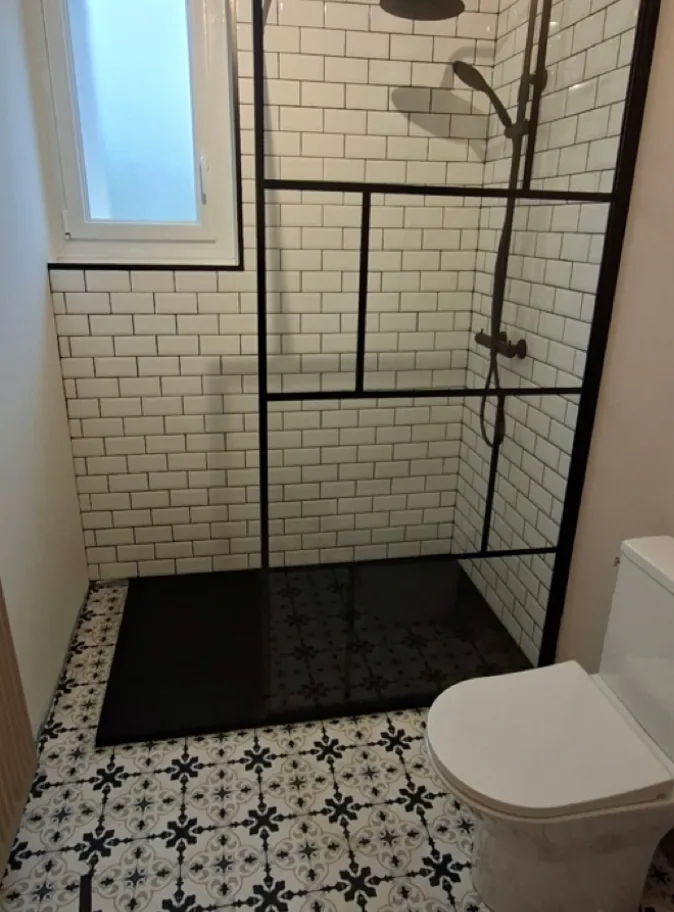
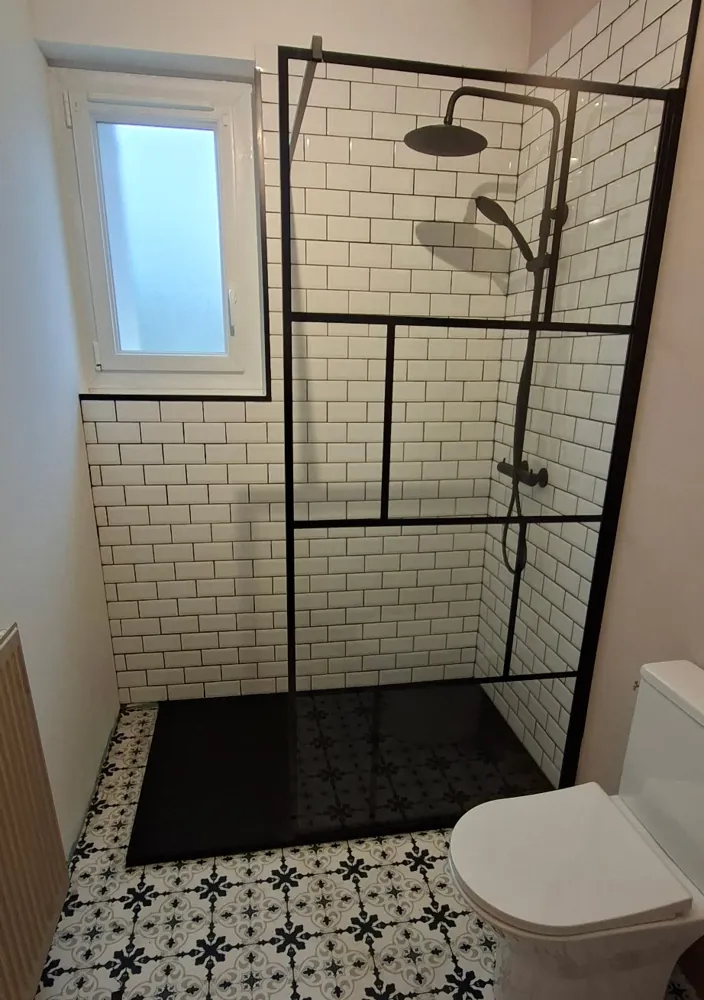
Photos des salles de bain en qualité originale

diff --git a/index.html b/index.html
@@ -183,7 +183,7 @@ footer a{color:rgba(255,255,255,.75)}
     </div>
     <div class="hero-duo">
       <div class="duo">
-        <figure><img src="img/salle-de-bain-douche.webp" alt="Salle de bain refaite par le plombier : douche à l'italienne, faïence métro et carreaux de ciment" width="674" height="912" fetchpriority="high"></figure>
+        <figure><img src="img/salle-de-bain-douche.webp" alt="Salle de bain refaite par le plombier : douche à l'italienne, faïence métro et carreaux de ciment" width="704" height="1000" fetchpriority="high"></figure>
         <figure><img src="img/chaudiere-bois.webp" alt="Chaudière installée par le plombier en chaufferie" width="1200" height="900"></figure>
       </div>
       <p class="duo-note">Chantiers réalisés par le plombier qui reçoit les demandes.</p>
@@ -245,7 +245,7 @@ footer a{color:rgba(255,255,255,.75)}
     <p class="surtitre" style="margin-top:56px">Chantiers réalisés</p>
     <h3 class="titre">Quelques chantiers du plombier qui reçoit vos demandes</h3>
     <div class="galerie">
-      <figure><img src="img/salle-de-bain-baignoire.webp" alt="Salle de bain refaite par le plombier : baignoire balnéo et douche à l'italienne" width="674" height="734" loading="lazy"></figure>
+      <figure><img src="img/salle-de-bain-baignoire.webp" alt="Salle de bain refaite par le plombier : baignoire balnéo et douche à l'italienne" width="782" height="1000" loading="lazy"></figure>
       <figure><img src="img/plancher-chauffant.webp" alt="Chantier de chauffage au sol en cours dans une pièce rénovée" width="1200" height="900" loading="lazy"></figure>
       <figure><img src="img/pac-ballons.webp" alt="Installation de chauffage et d'eau chaude raccordée en cuivre" width="675" height="1200" loading="lazy"></figure>
     </div>
